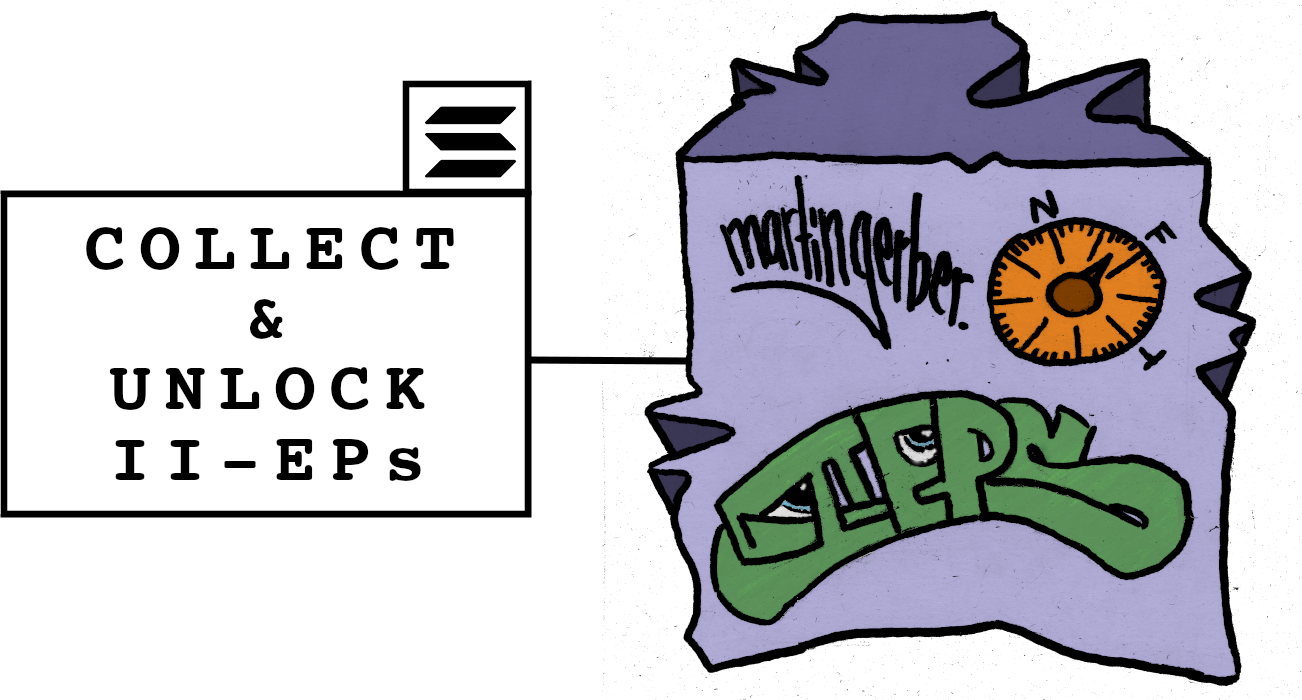
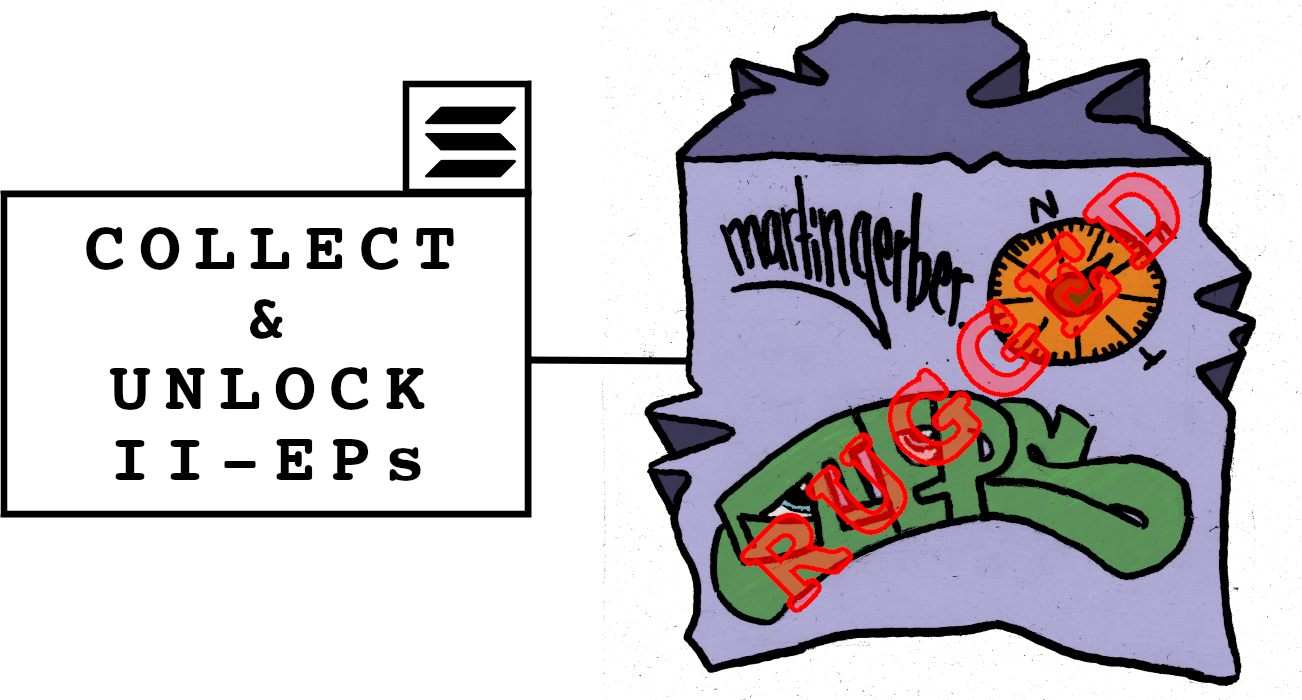
vault rugged us

Changed region(s): [[0.553, 0.24, 0.9217, 0.87]]

diff --git a/chat.html b/chat.html
@@ -1,109 +1,55 @@
 <!DOCTYPE html>
 <html>
-  <head>
-    <meta charset="UTF-8" />
-    <title>ChatGPT Demo</title>
-  </head>
-  <body>
-    <div id="chat-container">
-      <div id="chat-log"></div>
-      <div id="input-container">
-        <input type="text" id="chat-input" placeholder="Ask me anything!" />
-        <button id="send-btn">Send</button>
-      </div>
-    </div>
+<head>
+	<title>Chatbot</title>
+</head>
+<body>
+	<div id="chat-container">
+		<div id="messages"></div>
+		<input type="text" id="user-input" placeholder="Type your message here...">
+		<button id="send-button">Send</button>
+	</div>
 
-    <script src="https://cdn.jsdelivr.net/npm/@openai/api@0.6.0/dist/openai-api.min.js"></script>
-    <script>
-      const chatLog = document.getElementById("chat-log");
-      const chatInput = document.getElementById("chat-input");
-      const sendBtn = document.getElementById("send-btn");
+	<script>
+		// Set up OpenAI API credentials
+		const OPENAI_API_KEY = "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";
+		const OPENAI_API_URL = "https://api.openai.com/v1/engines/davinci-codex/completions";
 
-      const openai = new OpenAI("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");
+		// Set up event listener for send button
+		const sendButton = document.getElementById("send-button");
+		sendButton.addEventListener("click", sendMessage);
 
-      async function generateResponse(prompt) {
-        const completions = await openai.complete({
-          engine: "davinci",
-          prompt: prompt,
-          maxTokens: 150,
-          n: 1,
-          stop: ["\n"],
-          temperature: 0.7,
-        });
-        const message = completions.choices[0].text.trim();
-        return message;
-      }
+		// Function to handle user input and send to GPT-3 API
+		async function sendMessage() {
+			// Get user input text
+			const userInput = document.getElementById("user-input").value;
 
-      function appendMessageToChatLog(message, sender) {
-        const messageNode = document.createElement("div");
-        messageNode.classList.add("chat-message");
-        messageNode.classList.add(sender === "user" ? "user-message" : "bot-message");
-        messageNode.innerText = message;
-        chatLog.appendChild(messageNode);
-      }
+			// Create request object for GPT-3 API
+			const requestOptions = {
+				method: 'POST',
+				headers: { 'Content-Type': 'application/json',
+							'Authorization': `Bearer ${OPENAI_API_KEY}` },
+				body: JSON.stringify({ prompt: `User: ${userInput}\nBot:` })
+			};
 
-      async function handleUserInput() {
-        const userInput = chatInput.value.trim();
+			// Send request to GPT-3 API
+			const response = await fetch(OPENAI_API_URL, requestOptions);
+			const data = await response.json();
 
-        if (userInput !== "") {
-          appendMessageToChatLog(userInput, "user");
+			// Get response text from API and display in chat
+			const botResponse = data.choices[0].text;
+			addMessage("Bot", botResponse);
 
-          const response = await generateResponse(userInput);
-          appendMessageToChatLog(response, "bot");
+			// Clear input field
+			document.getElementById("user-input").value = "";
+		}
 
-          chatInput.value = "";
-        }
-      }
-
-      sendBtn.addEventListener("click", handleUserInput);
-      chatInput.addEventListener("keypress", (event) => {
-        if (event.key === "Enter") {
-          handleUserInput();
-        }
-      });
-
-      // Initial message from bot
-      (async () => {
-        const response = await generateResponse("hello");
-        appendMessageToChatLog(response, "bot");
-      })();
-    </script>
-
-    <style>
-      #chat-container {
-        width: 400px;
-        margin: 0 auto;
-      }
-
-      .chat-message {
-        margin-bottom: 10px;
-        padding: 5px;
-        border-radius: 5px;
-      }
-
-      .user-message {
-        background-color: #d1eaf7;
-        text-align: right;
-      }
-
-      .bot-message {
-        background-color: #f0f0f0;
-        text-align: left;
-      }
-
-      #input-container {
-        margin-top: 10px;
-        display: flex;
-      }
-
-      #chat-input {
-        flex-grow: 1;
-        margin-right: 10px;
-      }
-
-      #send-btn {
-        width: 80px;
-      }
-    </style>
-  </body>
+		// Function to add message to chat history
+		function addMessage(sender, message) {
+			const messageElement = document.createElement("div");
+			messageElement.textContent = `${sender}: ${message}`;
+			document.getElementById("messages").appendChild(messageElement);
+		}
+	</script>
+</body>
 </html>

diff --git a/chatgpt.js b/chatgpt.js
@@ -1,23 +1,52 @@
-class ChatGPT {
-    constructor(apiKey) {
-        this.apiKey = apiKey;
-    }
+const chatLog = document.getElementById("chat-log");
+const chatInput = document.getElementById("chat-input");
+const sendBtn = document.getElementById("send-btn");
 
-    generateResponse(prompt) {
-        const openai = require("@openai/api");
-        const api = new openai(this.apiKey);
+const openai = new OpenAI("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");
 
-        const parameters = {
-            "model": "text-davinci-002",
-            "prompt": prompt,
-            "temperature": 0.7,
-            "max_tokens": 60,
-            "top_p": 1,
-            "frequency_penalty": 0,
-            "presence_penalty": 0
-        };
-
-        return api.completions.create(parameters)
-            .then(response => response.data.choices[0].text);
-    }
+async function generateResponse(prompt) {
+  const completions = await openai.complete({
+    engine: "davinci",
+    prompt: prompt,
+    maxTokens: 150,
+    n: 1,
+    stop: ["\n"],
+    temperature: 0.7,
+  });
+  const message = completions.choices[0].text.trim();
+  return message;
 }
+
+function appendMessageToChatLog(message, sender) {
+  const messageNode = document.createElement("div");
+  messageNode.classList.add("chat-message");
+  messageNode.classList.add(sender === "user" ? "user-message" : "bot-message");
+  messageNode.innerText = message;
+  chatLog.appendChild(messageNode);
+}
+
+async function handleUserInput() {
+  const userInput = chatInput.value.trim();
+
+  if (userInput !== "") {
+    appendMessageToChatLog(userInput, "user");
+
+    const response = await generateResponse(userInput);
+    appendMessageToChatLog(response, "bot");
+
+    chatInput.value = "";
+  }
+}
+
+sendBtn.addEventListener("click", handleUserInput);
+chatInput.addEventListener("keypress", (event) => {
+  if (event.key === "Enter") {
+    handleUserInput();
+  }
+});
+
+// Initial message from bot
+(async () => {
+  const response = await generateResponse("hello");
+  appendMessageToChatLog(response, "bot");
+})();
